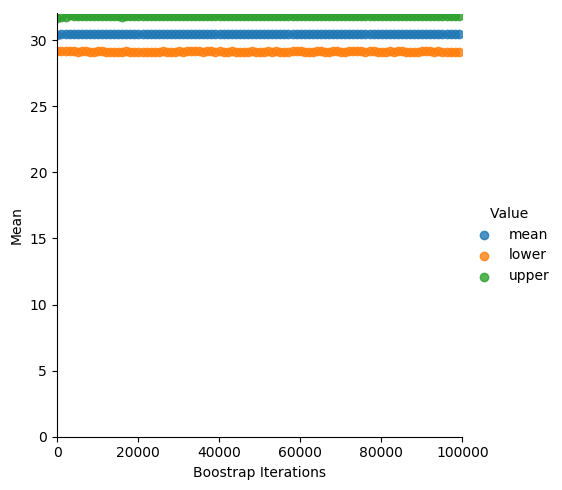
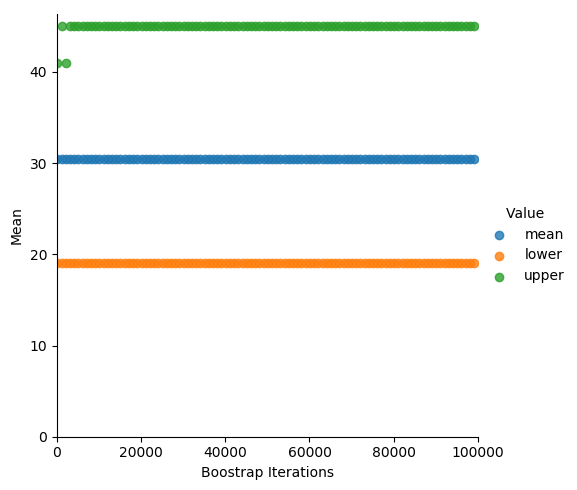
update

diff --git a/lab2/power.py b/lab2/power.py
@@ -4,11 +4,8 @@ import pandas as pd
 def power(sample1, sample2, reps, size, alpha):
     count = 0
     for i in range(0, reps):
-        random_sample1 = []
-        random_sample2 = []
-        for x in range(0, size):
-            random_sample1.append(sample1[np.random.randint(0, len(sample1))])
-            random_sample2.append(sample2[np.random.randint(0, len(sample2))])
+        random_sample1 = np.random.choice(sample1, size)
+        random_sample2 = np.random.choice(sample2, size)
         cat_arr = np.concatenate((random_sample1, random_sample2))
         np.random.shuffle(cat_arr)
         random_shuffle_sample1 = cat_arr[:size]

diff --git a/lab2/bootstrap.py b/lab2/bootstrap.py
@@ -9,12 +9,12 @@ def boostrap(sample, sample_size, iterations, percentile):
     samples = []
     means = []
     for i in range(0, iterations):
-        samples.append(np.random.choice(sample, sample_size))
-        means.append(np.mean(sample))
+        random_sample = np.random.choice(sample, sample_size)
+        samples.append(random_sample)
+        means.append(random_sample)
     data_mean = np.mean(samples)            
     lower = np.percentile(means, (100 - percentile)/2)
     upper = np.percentile(means, percentile + ((100-percentile)/2))
-	
     return data_mean, lower, upper
 
 
